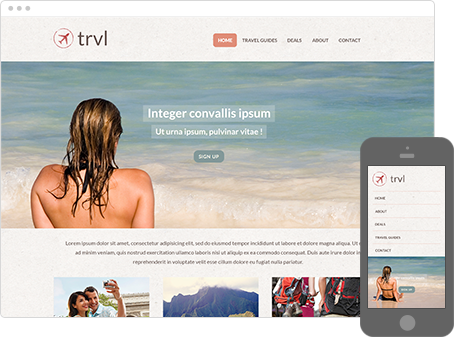
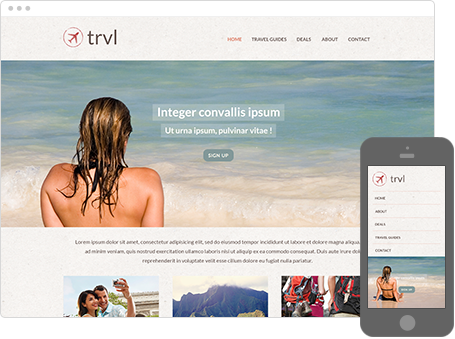
updated template

diff --git a/stylesheet.less b/stylesheet.less
@@ -168,10 +168,13 @@ header {
   margin-top: 13px;
 }
 
-.widget.companyname h1 {
-  margin: 0;
-  padding: 0;
-  letter-spacing: -1px;
+.widget.companyname a {
+  font-family:@font-swatch10-font-family;
+  font-weight: @font-swatch10-font-weight;
+  color:@font-swatch10-color;
+  line-height:@font-swatch10-line-height;
+  letter-spacing: @font-swatch10-letter-spacing;
+  font-size: @font-swatch10-font-size;
 }
 
 /* LOGO */
